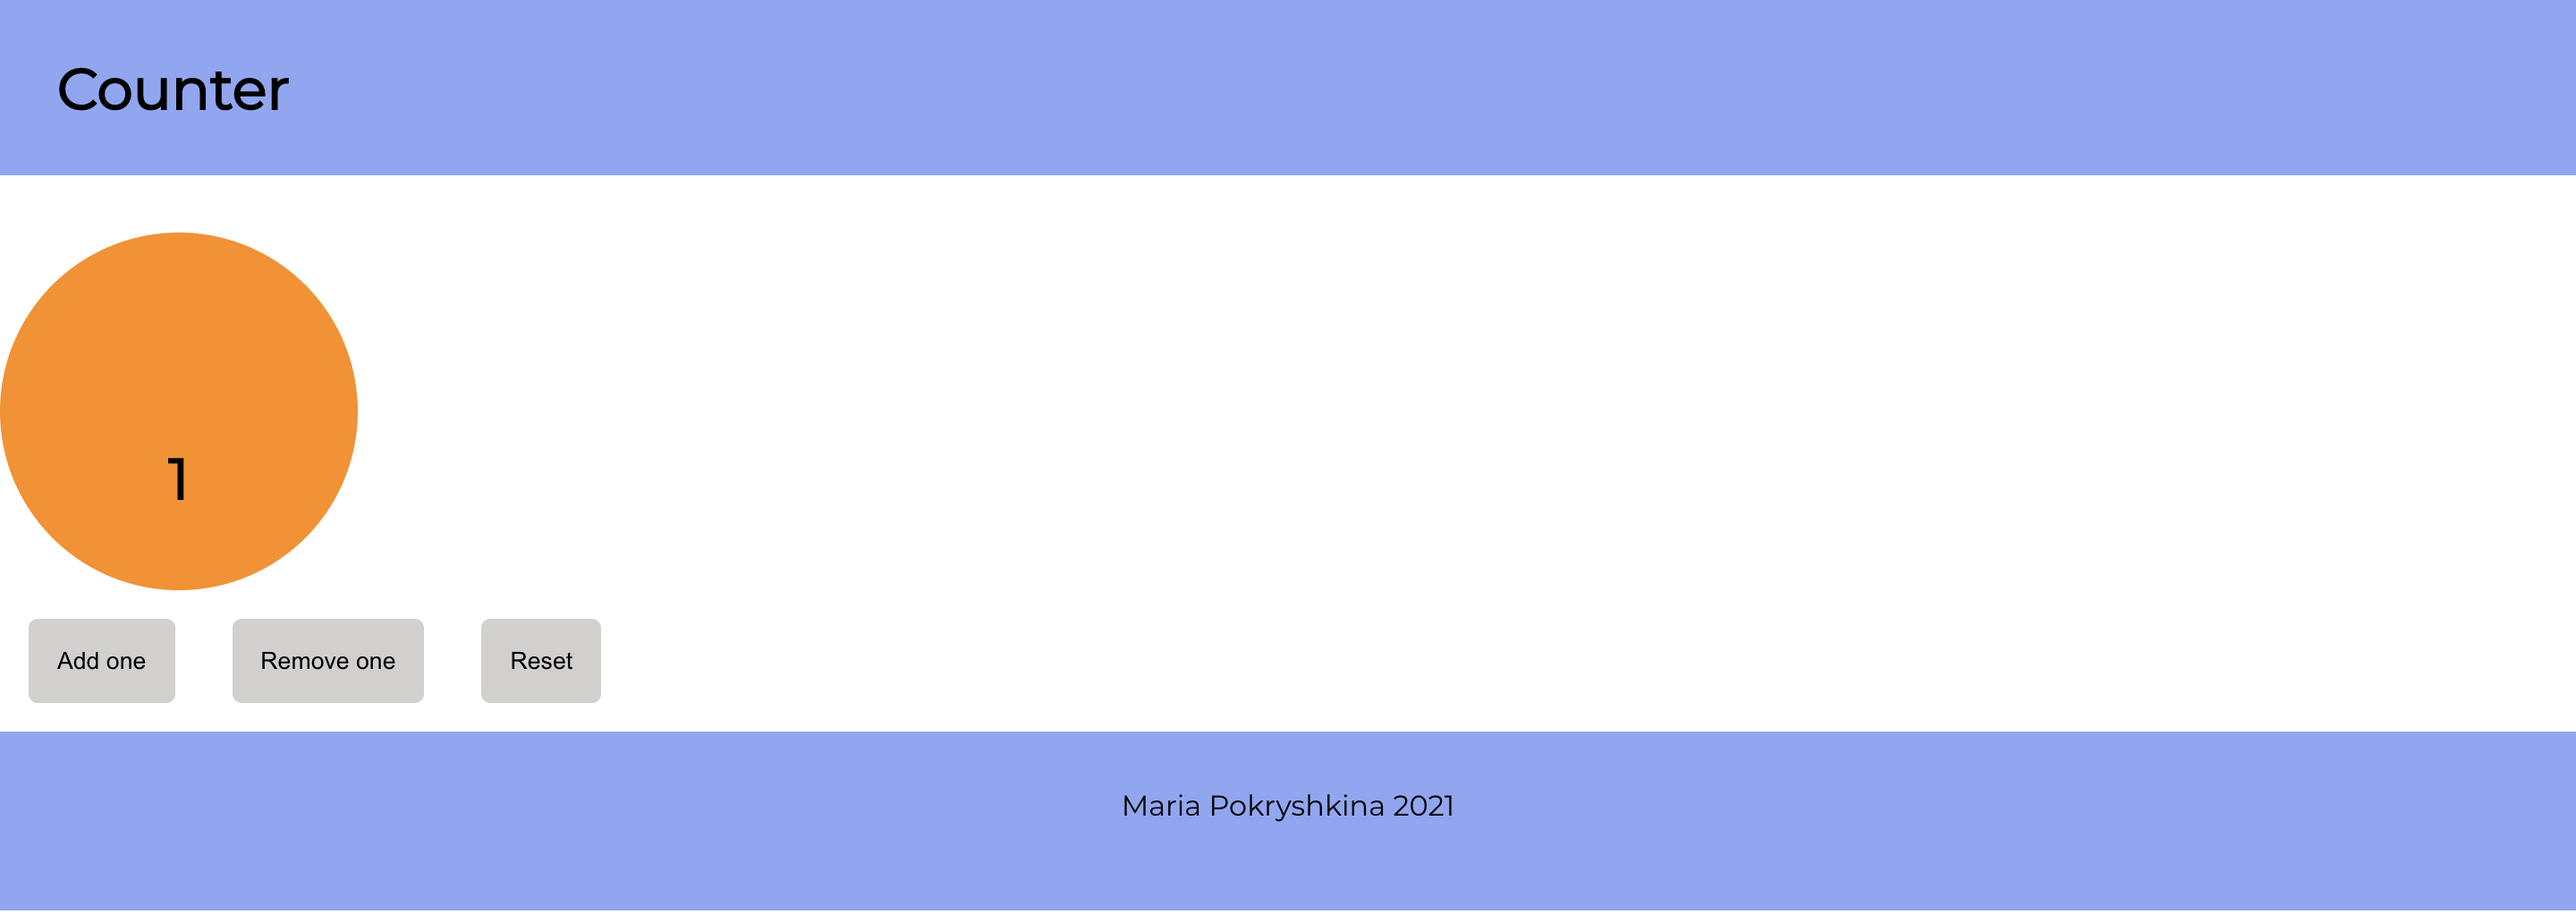
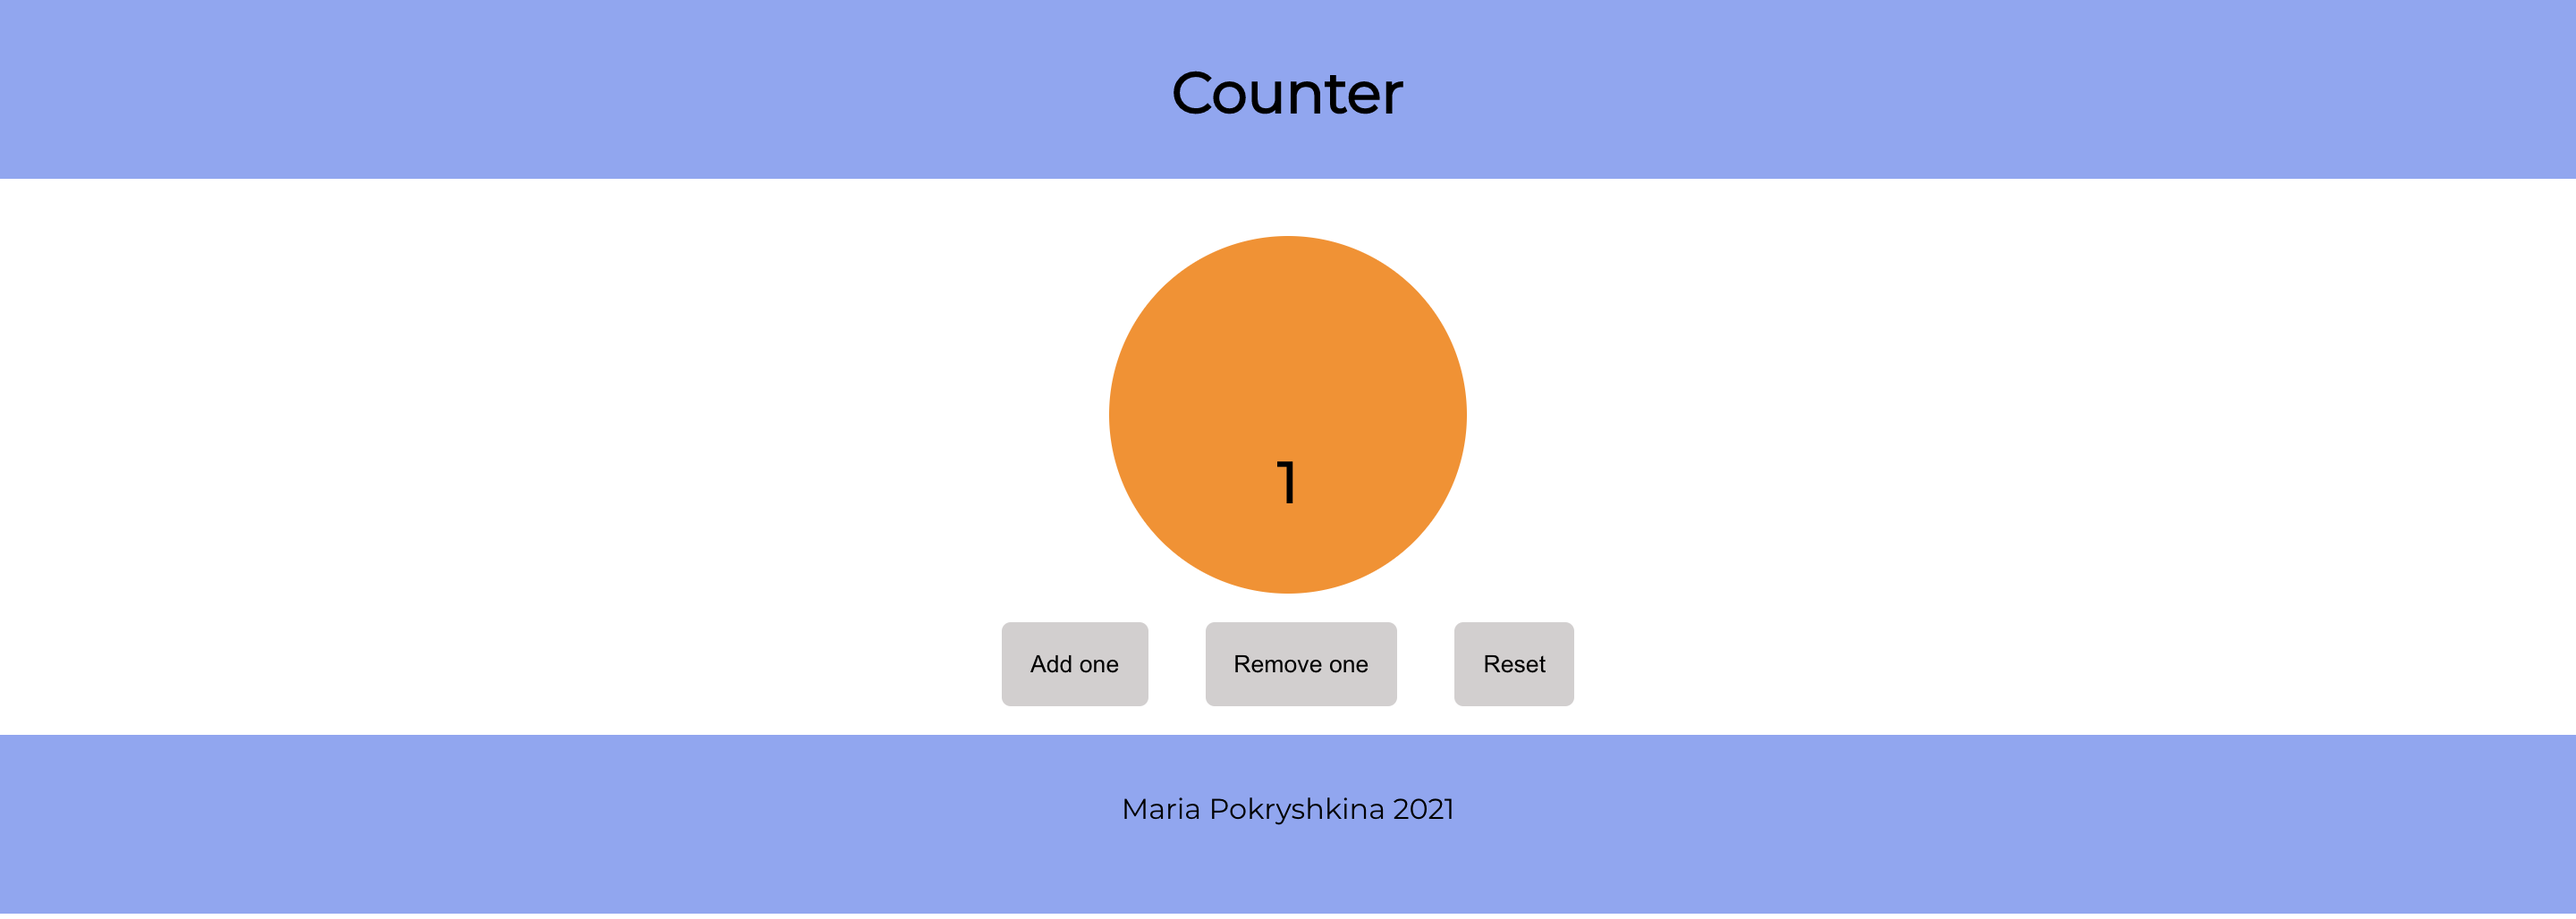
added description

diff --git a/src/components/Main.js b/src/components/Main.js
@@ -24,16 +24,17 @@ class Main extends Component {
       this.state.counter === 0
         ? ""
         : this.state.counter % 2 === 0
-        ? "even"
-        : "odd"
+        ? "even circle"
+        : "odd circle"
     } circle`;
 
     return (
       <main>
-        <div>
+        
           <div className={circleClass}>
             <h1>{this.state.counter}</h1>
           </div>
+          <div>
           <button onClick={this.addOneHandler}>Add one</button>
           <button onClick={this.removeOneHandler}>Remove one</button>
           <button onClick={this.resetHandler}>Reset</button>

diff --git a/src/index.css b/src/index.css
@@ -21,13 +21,23 @@ footer {
   margin-bottom: 2rem;
 }
 
-footer {
+footer,
+header {
   text-align: center;
 }
 
 main {
   min-height: calc(100vh-200px);
+  display: flex;
+  flex-direction: column;
   align-items: center;
+  justify-content: center;
+}
+
+main div {
+  display: flex;
+  justify-content: center;
+  text-align: center;
 }
 
 .circle {

diff --git a/README.md b/README.md
@@ -1,5 +1,7 @@
 Welcome to the Counter App!
 
+In this app you can add, remove and recet numbers.
+
 https://admiring-ardinghelli-068ce7.netlify.app
 
 ![Screenshot](Screenshot.png)
